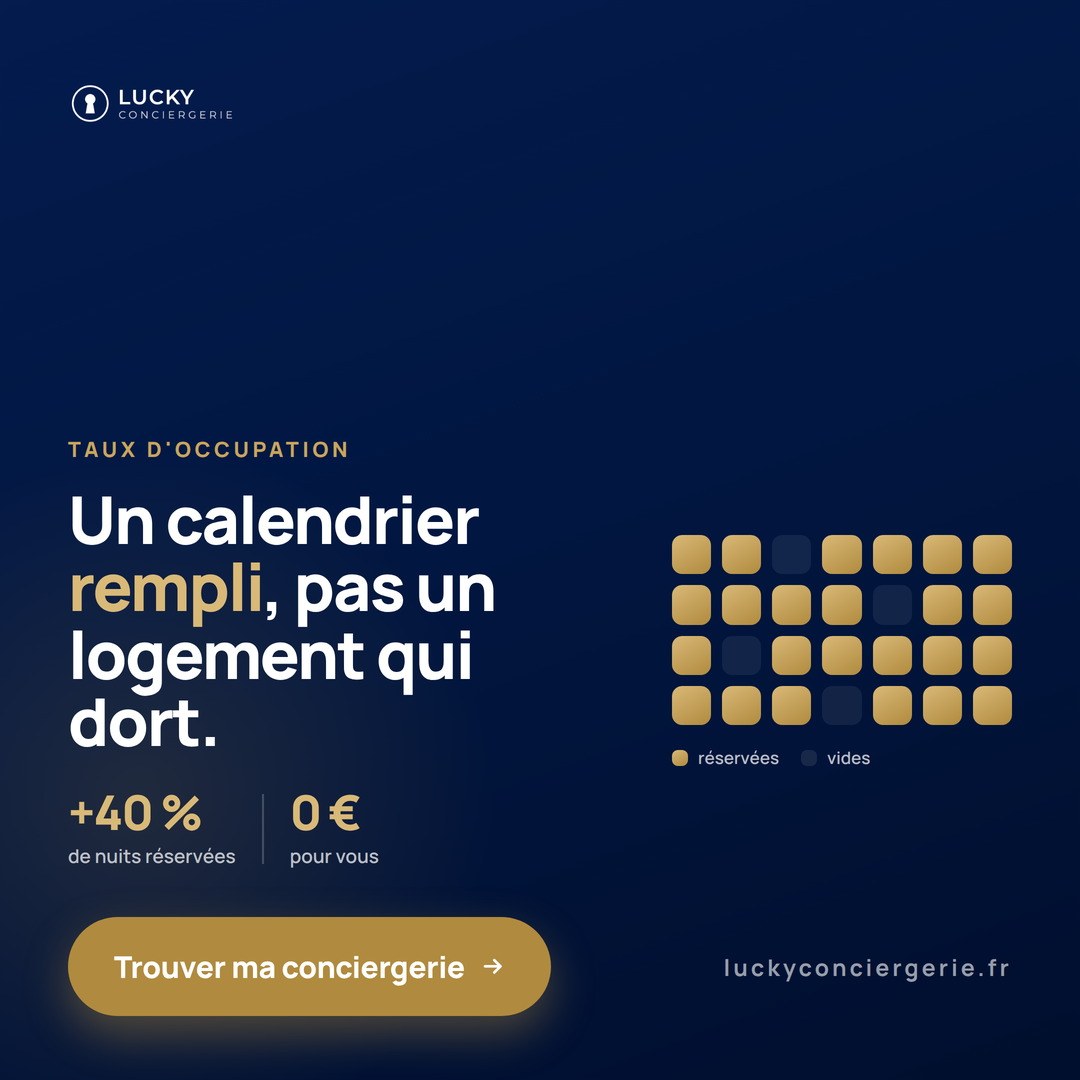
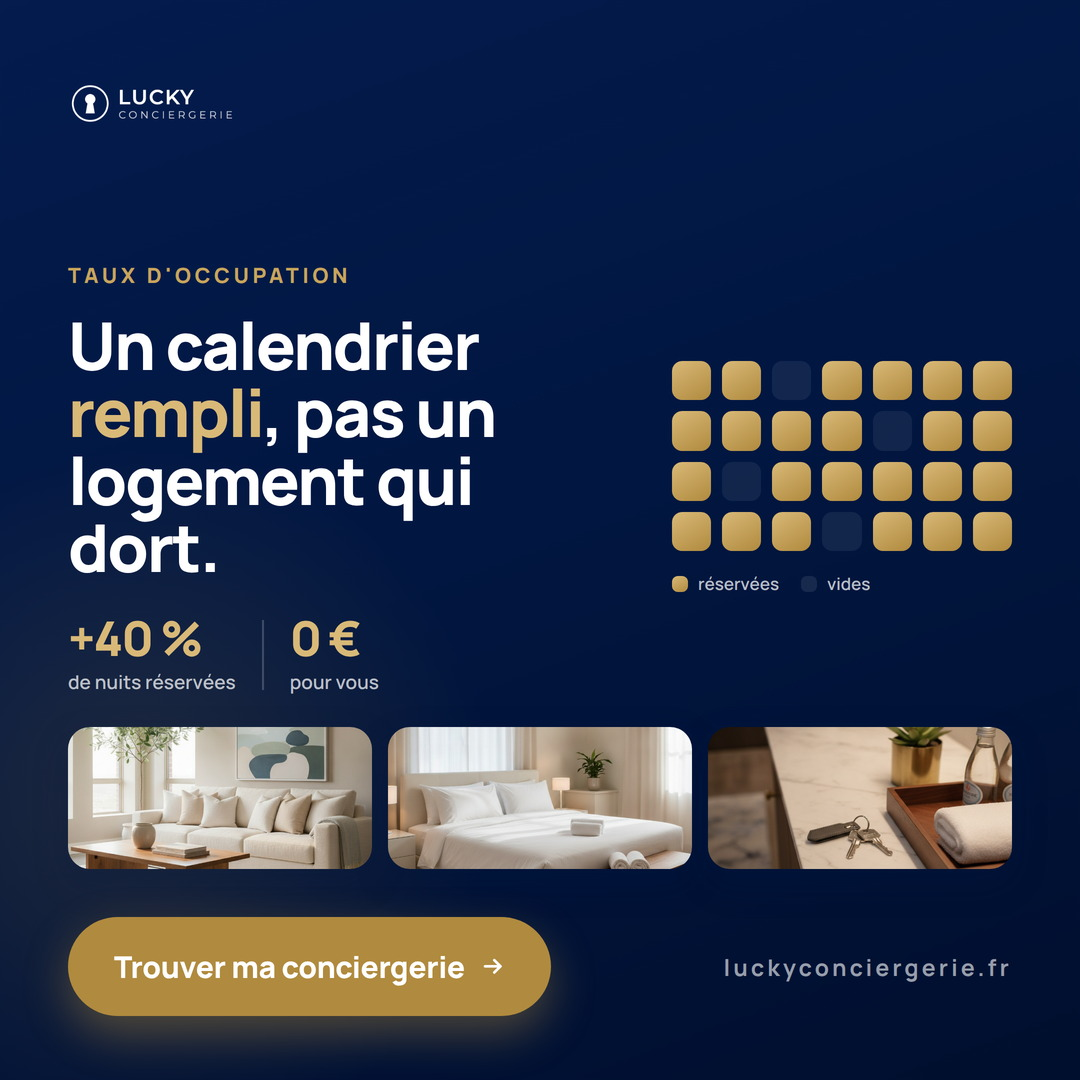
Visuels pub : ajouter des images aux 5 angles 100 pour cent graphiques
Demande de Martin (vocal du 10/08) : mettre des petites images.
- 5 vignettes photo generees via Gemini (salon, chambre, cuisine, cles, salon2)
- bandeau de 3 vignettes sur les story et carres de D, F, H, K, L
- fond photo assombri (voile-sombre) sur les paysages de D, F, H, L, trop
  etroits pour accueillir un bandeau
- F story reequilibre : le bandeau le faisait deborder de 31 px

Les 36 visuels passent le controle de debordement.

Claude-Session: https://claude.ai/code/session_0191SEQFiozcyfvg4EL88TQq

Changed region(s): [[0.0611, 0.3056, 0.9472, 0.825], [0.0611, 0.2444, 0.3361, 0.275]]

diff --git a/pipeline/ads/lucky_conciergerie/html/F_occupation_story.html b/pipeline/ads/lucky_conciergerie/html/F_occupation_story.html
@@ -16,12 +16,13 @@
     .cal-legende > div { display: flex; align-items: center; gap: 14px; }
     .cal-pastille { width: 22px; height: 22px; }
     .cal-txt { font-size: 23px; }
-    .stats { gap: 40px; align-items: center; margin-top: 62px; }
+    .stats { gap: 40px; align-items: center; margin-top: 48px; }
     .stat-n { font-size: 64px; }
     .stat-l { font-size: 23px; margin-top: 10px; max-width: 230px; }
     .sep { width: 2px; height: 92px; }
-    .cta { font-size: 36px; padding: 36px 58px; gap: 20px; margin-top: 66px; }
-    .url { font-size: 27px; color: rgba(255,255,255,.60); margin-top: 52px; }
+    .cta { font-size: 36px; padding: 36px 58px; gap: 20px; margin-top: 50px; }
+    .url { font-size: 27px; color: rgba(255,255,255,.60); margin-top: 44px; }
+    .vignettes { gap: 20px; height: 186px; margin-top: 44px; }
 </style>
 </head>
 <body>
@@ -74,6 +75,12 @@
                     <div class="stat-n">0 &euro;</div>
                     <div class="stat-l">pour trouver votre conciergerie</div>
                 </div>
+            </div>
+
+            <div class="vignettes">
+                <div class="vignette"><img src="../assets/vignettes/salon.png" alt=""></div>
+                <div class="vignette"><img src="../assets/vignettes/chambre.png" alt=""></div>
+                <div class="vignette"><img src="../assets/vignettes/cles.png" alt=""></div>
             </div>
 
             <div class="cta">Trouver ma conciergerie <svg class="fleche" viewBox="0 0 24 24" fill="none" stroke="currentColor" stroke-width="2.6" stroke-linecap="round" stroke-linejoin="round"><path d="M4 12h15M13 6l6 6-6 6"/></svg></div>

diff --git a/pipeline/ads/lucky_conciergerie/html/L_canaux_story.html b/pipeline/ads/lucky_conciergerie/html/L_canaux_story.html
@@ -17,6 +17,7 @@
     .sous { font-size: 31px; margin-top: 46px; max-width: 850px; }
     .cta { font-size: 36px; padding: 36px 58px; gap: 20px; margin-top: 58px; }
     .url { font-size: 27px; color: rgba(255,255,255,.60); margin-top: 48px; }
+    .vignettes { gap: 20px; height: 232px; margin-top: 58px; }
 </style>
 </head>
 <body>
@@ -38,6 +39,12 @@
 
             <div class="sous">Annonce diffusée et calendriers synchronisés sur les grandes plateformes.
                 <b>Plus de visibilité, plus de réservations.</b></div>
+
+            <div class="vignettes">
+                <div class="vignette"><img src="../assets/vignettes/salon.png" alt=""></div>
+                <div class="vignette"><img src="../assets/vignettes/chambre.png" alt=""></div>
+                <div class="vignette"><img src="../assets/vignettes/cles.png" alt=""></div>
+            </div>
 
             <div class="cta">Trouver ma conciergerie <svg class="fleche" viewBox="0 0 24 24" fill="none" stroke="currentColor" stroke-width="2.6" stroke-linecap="round" stroke-linejoin="round"><path d="M4 12h15M13 6l6 6-6 6"/></svg></div>
             <div class="url">luckyconciergerie.fr</div>

diff --git a/pipeline/ads/lucky_conciergerie/html/base.css b/pipeline/ads/lucky_conciergerie/html/base.css
@@ -62,6 +62,12 @@ body {
     background: linear-gradient(180deg,
         rgba(1,22,64,.10) 0%, rgba(1,22,64,.55) 55%, rgba(1,22,64,.93) 100%);
 }
+/* voile dense : laisse deviner la photo sans nuire a la lisibilite,
+   pour les formats trop serres pour accueillir des vignettes */
+.voile-sombre {
+    background: linear-gradient(105deg,
+        rgba(1,22,64,.97) 0%, rgba(1,22,64,.93) 46%, rgba(1,22,64,.86) 100%);
+}
 .voile-gauche {
     background: linear-gradient(90deg,
         rgba(1,22,64,.97) 0%, rgba(1,22,64,.90) 45%,
@@ -249,6 +255,12 @@ body {
          border: 1px solid rgba(255,255,255,.16); }
 .ville.claire { background: var(--blanc); color: var(--navy); border-color: #E3E6ED; }
 .ville.or { background: var(--or); color: var(--blanc); border-color: var(--or); }
+
+/* ---------- petites images (vignettes) ---------- */
+.vignettes { display: flex; }
+.vignette { flex: 1; border-radius: 22px; overflow: hidden;
+            box-shadow: 0 14px 34px rgba(1,22,64,.30); }
+.vignette img { width: 100%; height: 100%; object-fit: cover; display: block; }
 
 /* ---------- canaux de diffusion ---------- */
 .canaux { display: flex; align-items: center; }

diff --git a/pipeline/ads/lucky_conciergerie/html/H_espaceproprio_story.html b/pipeline/ads/lucky_conciergerie/html/H_espaceproprio_story.html
@@ -18,6 +18,7 @@
     .sous { font-size: 31px; margin-top: 46px; max-width: 840px; }
     .cta { font-size: 36px; padding: 36px 58px; gap: 20px; margin-top: 62px; }
     .url { font-size: 27px; color: rgba(255,255,255,.60); margin-top: 52px; }
+    .vignettes { gap: 20px; height: 232px; margin-top: 58px; }
 </style>
 </head>
 <body>
@@ -52,6 +53,12 @@
 
             <div class="sous">Les conciergeries du réseau pilotent votre logement avec un logiciel pro.
                 <b>Vous voyez tout, sans rien demander.</b></div>
+
+            <div class="vignettes">
+                <div class="vignette"><img src="../assets/vignettes/salon.png" alt=""></div>
+                <div class="vignette"><img src="../assets/vignettes/chambre.png" alt=""></div>
+                <div class="vignette"><img src="../assets/vignettes/cles.png" alt=""></div>
+            </div>
 
             <div class="cta">Trouver ma conciergerie <svg class="fleche" viewBox="0 0 24 24" fill="none" stroke="currentColor" stroke-width="2.6" stroke-linecap="round" stroke-linejoin="round"><path d="M4 12h15M13 6l6 6-6 6"/></svg></div>
             <div class="url">luckyconciergerie.fr</div>

diff --git a/pipeline/ads/lucky_conciergerie/html/D_performance_story.html b/pipeline/ads/lucky_conciergerie/html/D_performance_story.html
@@ -19,6 +19,7 @@
     .glabel { font-size: 23px; margin-top: 26px; line-height: 1.3; }
     .cta { font-size: 36px; padding: 36px 58px; gap: 20px; margin-top: 76px; }
     .url { font-size: 27px; color: rgba(255,255,255,.60); margin-top: 52px; }
+    .vignettes { gap: 20px; height: 232px; margin-top: 58px; }
 </style>
 </head>
 <body>
@@ -44,6 +45,12 @@
                     <div class="gcol gcol-apres"></div>
                     <div class="glabel"><b>Conciergerie certifiée</b>revenus optimisés</div>
                 </div>
+            </div>
+
+            <div class="vignettes">
+                <div class="vignette"><img src="../assets/vignettes/salon.png" alt=""></div>
+                <div class="vignette"><img src="../assets/vignettes/chambre.png" alt=""></div>
+                <div class="vignette"><img src="../assets/vignettes/cles.png" alt=""></div>
             </div>
 
             <div class="cta">Trouver ma conciergerie <svg class="fleche" viewBox="0 0 24 24" fill="none" stroke="currentColor" stroke-width="2.6" stroke-linecap="round" stroke-linejoin="round"><path d="M4 12h15M13 6l6 6-6 6"/></svg></div>

diff --git a/pipeline/ads/lucky_conciergerie/html/L_canaux_carre.html b/pipeline/ads/lucky_conciergerie/html/L_canaux_carre.html
@@ -18,6 +18,7 @@
     .bas { display: flex; align-items: center; justify-content: space-between; margin-top: 40px; }
     .cta { font-size: 30px; padding: 29px 46px; gap: 16px; }
     .url { font-size: 23px; color: rgba(255,255,255,.60); }
+    .vignettes { gap: 16px; height: 142px; margin-top: 32px; }
 </style>
 </head>
 <body>
@@ -39,6 +40,12 @@
 
             <div class="sous">Annonce diffusée et calendriers synchronisés.
                 <b>Plus de visibilité, plus de réservations.</b></div>
+
+            <div class="vignettes">
+                <div class="vignette"><img src="../assets/vignettes/salon.png" alt=""></div>
+                <div class="vignette"><img src="../assets/vignettes/chambre.png" alt=""></div>
+                <div class="vignette"><img src="../assets/vignettes/cles.png" alt=""></div>
+            </div>
 
             <div class="bas">
                 <div class="cta">Trouver ma conciergerie <svg class="fleche" viewBox="0 0 24 24" fill="none" stroke="currentColor" stroke-width="2.6" stroke-linecap="round" stroke-linejoin="round"><path d="M4 12h15M13 6l6 6-6 6"/></svg></div>

diff --git a/pipeline/ads/lucky_conciergerie/html/K_etapes_story.html b/pipeline/ads/lucky_conciergerie/html/K_etapes_story.html
@@ -19,6 +19,7 @@
     .etape-txt { font-size: 24px; line-height: 1.4; }
     .cta { font-size: 35px; padding: 35px 56px; gap: 18px; margin-top: 62px; }
     .url { font-size: 26px; color: var(--gris); margin-top: 46px; }
+    .vignettes { gap: 20px; height: 232px; margin-top: 58px; }
 </style>
 </head>
 <body>
@@ -55,6 +56,12 @@
                             près de chez vous.</div>
                     </div>
                 </div>
+            </div>
+
+            <div class="vignettes">
+                <div class="vignette"><img src="../assets/vignettes/salon.png" alt=""></div>
+                <div class="vignette"><img src="../assets/vignettes/chambre.png" alt=""></div>
+                <div class="vignette"><img src="../assets/vignettes/cles.png" alt=""></div>
             </div>
 
             <div class="cta">Trouver ma conciergerie <svg class="fleche" viewBox="0 0 24 24" fill="none" stroke="currentColor" stroke-width="2.6" stroke-linecap="round" stroke-linejoin="round"><path d="M4 12h15M13 6l6 6-6 6"/></svg></div>

diff --git a/pipeline/ads/lucky_conciergerie/html/K_etapes_carre.html b/pipeline/ads/lucky_conciergerie/html/K_etapes_carre.html
@@ -20,6 +20,7 @@
     .bas { display: flex; align-items: center; justify-content: space-between; margin-top: 40px; }
     .cta { font-size: 28px; padding: 27px 44px; gap: 15px; }
     .url { font-size: 21px; color: var(--gris); }
+    .vignettes { gap: 16px; height: 142px; margin-top: 32px; }
 </style>
 </head>
 <body>
@@ -49,6 +50,12 @@
                     <div class="etape-tit">On vous présente la bonne conciergerie</div>
                     <div class="etape-txt">Certifiée par nos équipes, près de chez vous.</div>
                 </div>
+            </div>
+
+            <div class="vignettes">
+                <div class="vignette"><img src="../assets/vignettes/salon.png" alt=""></div>
+                <div class="vignette"><img src="../assets/vignettes/chambre.png" alt=""></div>
+                <div class="vignette"><img src="../assets/vignettes/cles.png" alt=""></div>
             </div>
 
             <div class="bas">

diff --git a/pipeline/ads/lucky_conciergerie/html/D_performance_carre.html b/pipeline/ads/lucky_conciergerie/html/D_performance_carre.html
@@ -23,6 +23,7 @@
     .bas { display: flex; align-items: center; justify-content: space-between; margin-top: 52px; }
     .cta { font-size: 30px; padding: 29px 46px; gap: 16px; }
     .url { font-size: 23px; color: rgba(255,255,255,.60); }
+    .vignettes { gap: 16px; height: 142px; margin-top: 32px; }
 </style>
 </head>
 <body>
@@ -52,6 +53,12 @@
                         <div class="glabel"><b>Certifiée Lucky</b>revenus optimisés</div>
                     </div>
                 </div>
+            </div>
+
+            <div class="vignettes">
+                <div class="vignette"><img src="../assets/vignettes/salon.png" alt=""></div>
+                <div class="vignette"><img src="../assets/vignettes/chambre.png" alt=""></div>
+                <div class="vignette"><img src="../assets/vignettes/cles.png" alt=""></div>
             </div>
 
             <div class="bas">

diff --git a/pipeline/ads/lucky_conciergerie/html/F_occupation_carre.html b/pipeline/ads/lucky_conciergerie/html/F_occupation_carre.html
@@ -26,6 +26,7 @@
     .bas { display: flex; align-items: center; justify-content: space-between; margin-top: 48px; }
     .cta { font-size: 30px; padding: 29px 46px; gap: 16px; }
     .url { font-size: 23px; color: rgba(255,255,255,.60); }
+    .vignettes { gap: 16px; height: 142px; margin-top: 32px; }
 </style>
 </head>
 <body>
@@ -82,6 +83,12 @@
                              <div class="cal-txt">vides</div></div>
                     </div>
                 </div>
+            </div>
+
+            <div class="vignettes">
+                <div class="vignette"><img src="../assets/vignettes/salon.png" alt=""></div>
+                <div class="vignette"><img src="../assets/vignettes/chambre.png" alt=""></div>
+                <div class="vignette"><img src="../assets/vignettes/cles.png" alt=""></div>
             </div>
 
             <div class="bas">

diff --git a/pipeline/ads/lucky_conciergerie/html/H_espaceproprio_carre.html b/pipeline/ads/lucky_conciergerie/html/H_espaceproprio_carre.html
@@ -21,6 +21,7 @@
     .bas { display: flex; align-items: center; justify-content: space-between; margin-top: 46px; }
     .cta { font-size: 30px; padding: 29px 46px; gap: 16px; }
     .url { font-size: 23px; color: rgba(255,255,255,.60); }
+    .vignettes { gap: 16px; height: 142px; margin-top: 32px; }
 </style>
 </head>
 <body>
@@ -56,6 +57,12 @@
                         <div class="kpi-val">0</div>
                     </div>
                 </div>
+            </div>
+
+            <div class="vignettes">
+                <div class="vignette"><img src="../assets/vignettes/salon.png" alt=""></div>
+                <div class="vignette"><img src="../assets/vignettes/chambre.png" alt=""></div>
+                <div class="vignette"><img src="../assets/vignettes/cles.png" alt=""></div>
             </div>
 
             <div class="bas">

diff --git a/pipeline/ads/lucky_conciergerie/html/D_performance_paysage.html b/pipeline/ads/lucky_conciergerie/html/D_performance_paysage.html
@@ -25,6 +25,8 @@
 </head>
 <body>
 <div class="ad paysage">
+    <img class="photo" src="../assets/backgrounds/soir_paysage.png" alt="">
+    <div class="voile voile-sombre"></div>
     <div class="halo"></div>
 
     <div class="pad">
